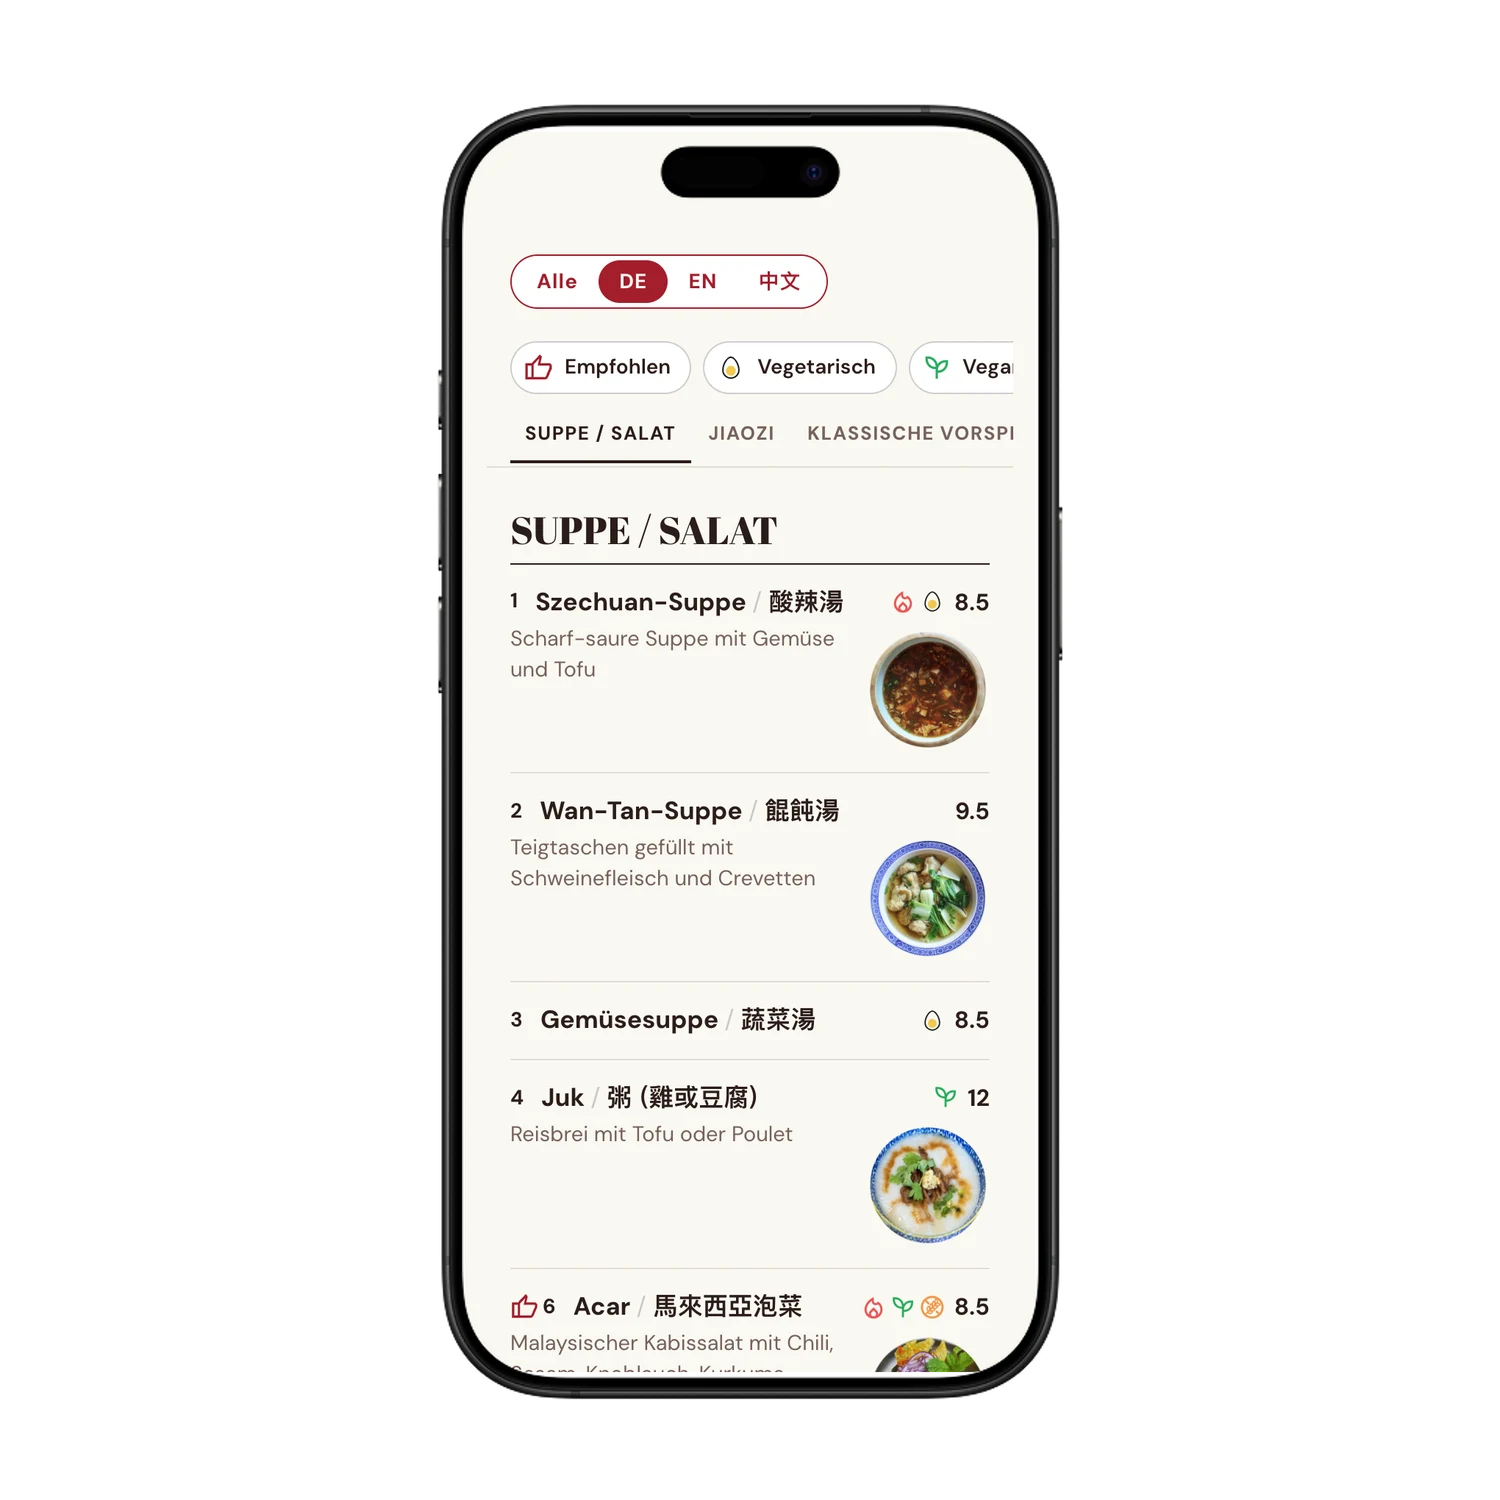
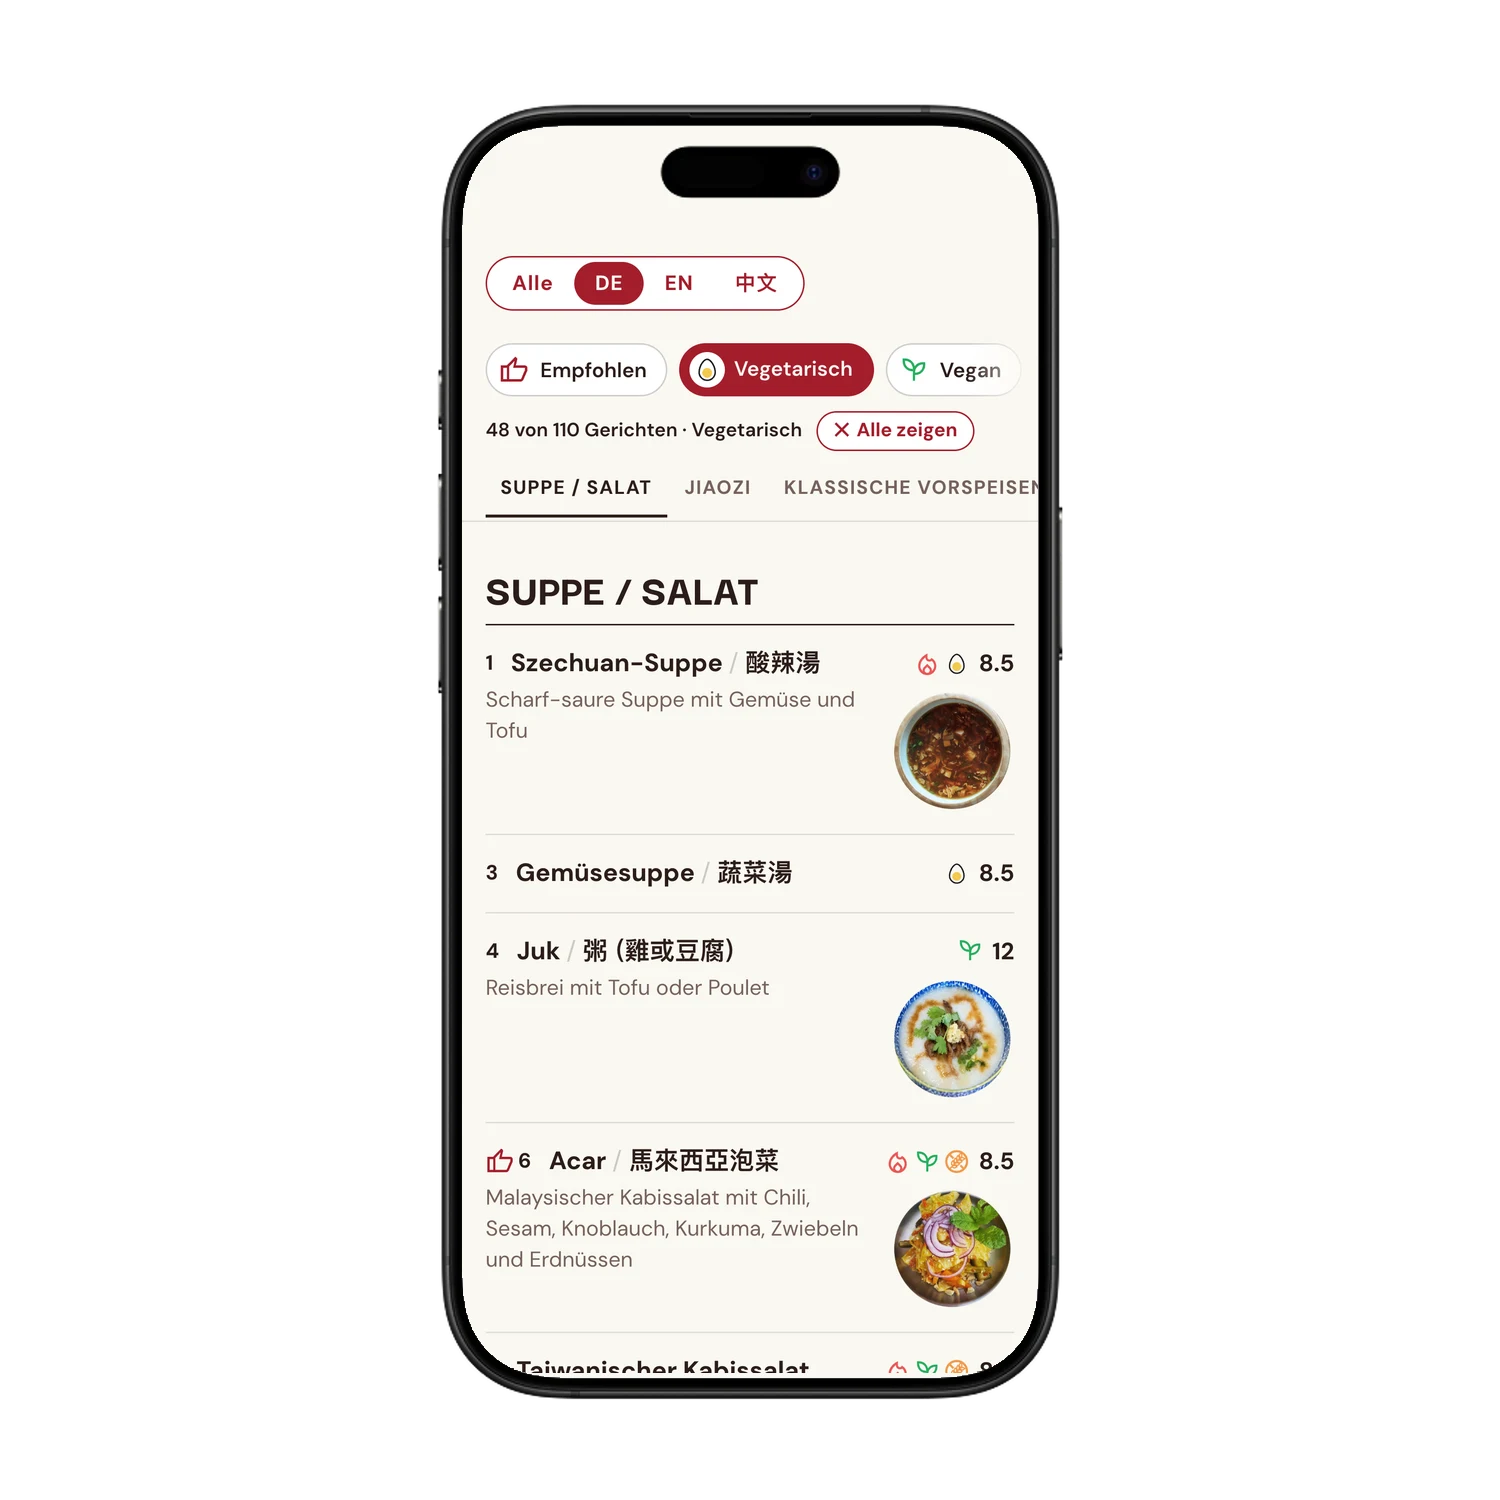
MenuDash: counting without tracking; 2.9 filters, Statistics live
New section on how the Statistics add-on counts attention without cookies
or IP addresses. Where it stands: 2.9, Specials and Statistics on afatt.ch.
Pictures show the new filter line (dish count and Show all).

Changed region(s): [[0.3067, 0.1533, 0.6747, 0.92], [0.3067, 0.5213, 0.552, 0.92]]

diff --git a/src/content/projects/menudash/index.md b/src/content/projects/menudash/index.md
@@ -47,7 +47,7 @@ I had already shown them [menuGen](https://yingshiuan.github.io/yingsc/projects/
 
 MenuDash is the WordPress plugin I designed and built to do that. It runs the [menu page on afatt.ch](https://afatt.ch/menu/): 110 dishes in three languages, filtered by diet, rebuilt whenever the owner uploads the sheet. Then, because the problem wasn't specific to one restaurant, I made it a product. The core and its theme are open source: [MenuDash on GitHub](https://github.com/yingshiuan/menudash) · [MenuDash Theme](https://github.com/yingshiuan/menudash-theme).
 
-**Where it stands:** live on one restaurant's site since September 2026. The add-ons and the theme are built, not yet installed there.
+**Where it stands:** live on one restaurant's site since September 2026, with the Specials and Statistics add-ons since October.
 
 #### Key Highlights
 
@@ -56,7 +56,7 @@ MenuDash is the WordPress plugin I designed and built to do that. It runs the [m
 - **I designed the failure path first.** A wrong file gets a red report and is refused, and the live menu stays online.
 - **I split the product where the customers split.** A free core for every café, paid add-ons for a full restaurant, and code where each add-on works on its own.
 
-![The sample menu on a desktop: all three languages at once, the diet filters, the category tabs. Placeholder photos.](./menu-desktop.webp)
+![The sample menu on a desktop: all three languages at once, the diet filters with Vegetarian turned on (“8 of 11 dishes · Vegetarian” and a Show all button), the category tabs. Placeholder photos.](./menu-desktop.webp)
 
 </div>
 
@@ -110,7 +110,7 @@ Then I had to decide how to sell it. My first plan was one package at a lower pr
 | **Restaurant** | Details entered once, opening hours, an "open now" badge, a holiday notice that takes itself down | A restaurant with a real website |
 | **Specials** | Today's specials and the lunch menu of the week | A kitchen that changes its offer |
 | **Gift Cards** | Gift card orders by e-mail, nothing paid online | A restaurant that sells gift cards |
-| **Statistics** | Which dishes guests look at, without cookies | An owner who wants to know what works |
+| **Statistics** | Which dishes guests look at, which filters and languages they use, without cookies | An owner who wants to know what works |
 
 ![Opening hours in the Restaurant add-on, with the joined days on the right as guests will see them.](./menudash-opening-hours.webp)
 
@@ -142,6 +142,21 @@ The theme follows the same rule. It stores no address, phone or hours of its own
 
 <div class="contentSection">
 
+## Counting Without Tracking
+
+The question behind the filters was whether guests would use them. Asking a restaurant to add Google Analytics for that means a cookie banner on a menu page, guest data sent to Google, and a privacy policy the owner doesn't understand. So I asked what the owner actually needs to know, and kept only that.
+
+- **What counts is attention, not page views.** A dish counts as seen when it stays on the screen for two seconds, so a guest scrolling past doesn't count. A photo counts when it's opened, a filter when it's turned on, a language when it's chosen, each once per visit.
+- **Only sums are stored.** One row per dish, or per button, and day. No cookies, nothing in the guest's browser, no IP address in the database, and nothing older than 25 months.
+- **Fake counts are slowed without identifying anyone.** The endpoint has to take messages from any visitor, so it limits how many each visitor can send. The visitor is a hash of their address with a key that changes every day, kept for ten minutes, so it can't be traced back.
+- **The owner's own visits don't count,** and neither do guests whose browser asks not to be tracked.
+
+The data is smaller than an analytics tool's, and that's the point: it answers the owner's questions (which dishes catch the eye, whether the photo helps, whether guests use the vegetarian filter, which language they read in) and nothing that would need a cookie banner. The privacy paragraph ships with the add-on.
+
+</div>
+
+<div class="contentSection">
+
 ## How I Built It
 
 I built MenuDash with Claude Code. I designed the product and the data model, wrote the specifications, reviewed every change and decided what shipped. The parser is tested against A Fatt's real spreadsheet as well as made-up ones, and the whole thing runs locally in WordPress Playground, so a site with the client's menu starts with one command.
@@ -162,7 +177,7 @@ I built MenuDash with Claude Code. I designed the product and the data model, wr
 
 ## Where It Stands
 
-The core has run A Fatt's menu page since late September 2026, now at version 2.8. The Specials add-on runs the specials on A Fatt's menu page too. The other three add-ons and the theme are built, offered through insdash, and not on A Fatt's site yet. A Fatt is the first restaurant running it; the split is built for the ones that come next.
+The core has run A Fatt's menu page since late September 2026, now at version 2.9. The Specials and Statistics add-ons run on A Fatt's site too. Restaurant, Gift Cards and the theme are built, offered through insdash, and not on A Fatt's site yet. A Fatt is the first restaurant running it; the split is built for the ones that come next.
 
 </div>
 
@@ -171,7 +186,7 @@ The core has run A Fatt's menu page since late September 2026, now at version 2.
 ## What's Still Open
 
 - **The owner's side isn't proven yet.** She's trained to upload the menu. Whether she does it month after month without me is the real result, and it's weeks old.
-- **The guest's side has no data yet.** Statistics is built to show which dishes guests look at, but it isn't installed on afatt.ch, so I can't yet say what guests do with the filters.
+- **The guest's side has no data yet.** Statistics went live on afatt.ch in October 2026, counting dishes, photos, filters and languages, but it's days old, so I can't yet say what guests do with the filters.
 - **I'd get the second customer before the third add-on.** It grew from one menu page into a core, four add-ons and a theme in two weeks, for one restaurant. The split is a bet on restaurants I haven't met yet.
 
 </div>
